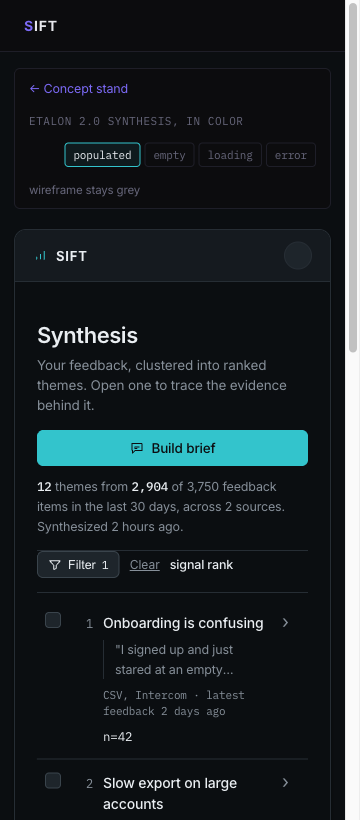
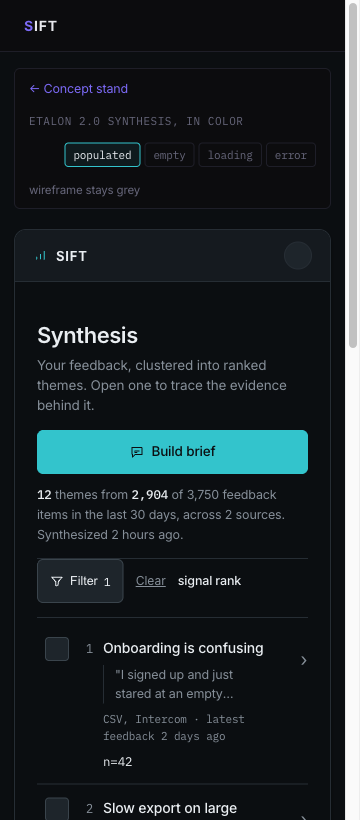
Concept Step 8: audit, before and after, stage closed
Audited with /impeccable audit plus a browser pass measuring contrast, target
size, focus, landmarks and overflow on every colour page at 1440 and 360.

Two P1s, and both were drift rather than fresh mistakes: not one control in the
colour layer met the 44px floor the grey contract had just been fixed to meet,
and the colour layer had no designed focus state, only the browser default ring.
Fixed, with the same three named exceptions the grey side carries. A P3 as well,
the phase separator at 1.39:1, which is decorative and aria-hidden and therefore
not a WCAG failure, but a separator nobody can see is not doing its job.

Contrast passes everywhere: every text pair measured against its real computed
background across five pages and both viewports, no failures.

The finding kept rather than fixed is the font. The detector flags Inter as an
overused face and it is right about the pattern, which is exactly the reflex this
stage exists to catch. It stays, with the argument written down instead of
assumed: signed to A5 and the named taste, self-hostable, and carrying its
contrast on the mono half where the counts and citations live. Revisited when
fonts become tokens at Stage 07. Swapping a face to score better against a
detector would leave it as unowned as choosing one by reflex.

The concept stand gains what it was missing: a Brand and references section, so
the three plates finally have the visible place they were promised and every
[…]

Changed region(s): [[0.0917, 0.5183, 0.8556, 1.0], [0.1222, 0.9451, 0.2139, 1.0]]

diff --git a/design/concept/concept.html b/design/concept/concept.html
@@ -174,6 +174,26 @@
     .img-note { grid-template-columns:1fr; }
   }
   @media (prefers-reduced-motion:reduce) { * { transition:none !important; scroll-behavior:auto; } }
+
+  .live-actions { display:flex; align-items:center; gap:12px; flex-wrap:wrap; margin-bottom:18px; }
+  .live-note { color:var(--ash); font-size:12.5px; max-width:60ch; }
+  .live-note code { font-family:var(--font-mono); color:var(--porcelain); }
+  .deferred-note { border:1px solid var(--line); border-left:2px solid var(--amber); border-radius:var(--r); padding:13px 16px; margin-bottom:14px; font-size:13px; line-height:1.65; color:var(--ash); }
+  .deferred-note b { color:var(--porcelain); font-weight:500; }
+  .sample.is-deferred { opacity:0.72; }
+  .plate { margin:0 0 20px; }
+  .plate img { width:100%; height:auto; display:block; border:1px solid var(--line); border-radius:var(--r); }
+  .plate figcaption { font-size:12.5px; line-height:1.65; color:var(--ash); margin-top:10px; }
+  .plate figcaption b { color:var(--porcelain); font-weight:500; }
+  .plate-row { display:grid; grid-template-columns:repeat(auto-fit,minmax(260px,1fr)); gap:18px; margin-bottom:22px; }
+  .plate--sm figcaption { font-size:12px; }
+  .ba-grid { display:grid; grid-template-columns:repeat(auto-fit,minmax(300px,1fr)); gap:18px; margin-bottom:22px; }
+  .ba { margin:0; }
+  .ba img { width:100%; height:auto; display:block; border:1px solid var(--line); border-radius:var(--r); }
+  .ba figcaption { font-size:12px; line-height:1.6; color:var(--ash); margin-top:9px; }
+  .ba figcaption b { color:var(--porcelain); font-weight:500; }
+  .sec-note { font-size:12.5px; color:var(--ash); margin-top:12px; }
+  .sec-note code { font-family:var(--font-mono); color:var(--porcelain); }
 </style>
 <link rel="stylesheet" href="../../_nav.css">
 </head>
@@ -211,20 +231,30 @@
   <header id="top">
     <div class="kicker">Sift / Concept / Stage 06</div>
     <h1 class="title">The visual language</h1>
-    <p class="lead">One brand, Command center, on the chosen layout, Split evidence. Every color, type, and form decision below is signed with the attribute it comes from. The page chrome is the portfolio theme; everything framed is the product brand it documents.</p>
+    <p class="lead">One brand, Command center, on the ranked ledger the etalon actually is. Every color, type, and form decision below is signed with the attribute it comes from. The page chrome is the portfolio theme; everything framed is the product brand it documents.</p>
   </header>
 
   <!-- LIVE -->
   <section id="live">
     <div class="sec-label">The language alive</div>
-    <h2>Synthesis, in the chosen layout</h2>
-    <p class="sec-intro">The etalon surface as it will look: ranked themes on the left, the live evidence for the selected theme on the right. Everything below this is the specification behind it.</p>
-    <p style="margin-bottom:18px">
+    <h2>Synthesis, and the brief a stranger reads</h2>
+    <p class="sec-intro">Two screens carry the language: the etalon, a dense ranked instrument its owner reads at a desk, and the public brief, one column of reading matter opened cold from a link by someone with no account. Same language, opposite density. Everything below this is the specification behind them.</p>
+    <p class="live-actions">
       <a class="btn" href="../../design/synthesis.html">Open the etalon in color</a>
-      <span style="color:var(--ash);font-size:12.5px;margin-left:10px">Colored copies in <code style="font-family:var(--font-mono);color:var(--porcelain)">design/</code>: populated, empty, loading, error. The grey wireframe stays the source of truth. The colored etalon colors the current wireframe structure (single column); this stand shows the Split-evidence direction, realized product-wide at Stage 07.</span>
+      <a class="btn-ghost" href="../../design/shared-brief.html">Open the shared brief</a>
+      <span class="live-note">Colored copies in <code>design/</code>: the etalon with its empty, loading and error states, plus the public brief. The grey wireframe stays the source of truth.</span>
     </p>
 
-    <div class="sample">
+    <div class="deferred-note">
+      <b>Below: the Split-evidence direction, deferred.</b> It was chosen at Step 5 to put evidence
+      in front of the eye before the click. The block bank then delivered that inside one column,
+      with a representative verbatim on every card and the scope line stating the denominator, so
+      the attribute is served without the structural change. The pane stays on record as a later
+      deepening of the drill; it is a change to node 2.0, and structure belongs to the IA and the
+      wireframes rather than to a colour copy. See <code>docs/decisions.md</code>.
+    </div>
+
+    <div class="sample is-deferred">
       <div class="sample-top">
         <span class="brand"><svg class="ic mark" width="16" height="16"><use href="#i-signal"/></svg> Sift</span>
         <nav><a class="on">Synthesis</a><a>Sources</a><a>Briefs</a></nav>
@@ -401,8 +431,84 @@
     </div>
   </section>
 
+  <!-- BRAND AND REFERENCES -->
+  <section id="brand">
+    <div class="sec-label">Brand and references</div>
+    <h2>Where the language came from</h2>
+    <p class="sec-intro">Three brand toolkit plates were generated against the emotions in the personas and against what the competitors already look like, and one was chosen at a glance. Every value in the palette above traces to a pixel of that plate or to a character decision recorded beside it.</p>
+
+    <figure class="plate">
+      <img src="assets/brand-plate-b.png" alt="Brand plate B, Command center: the chosen toolkit spread, showing the mark, the dark layered palette, the type pairing, and the UI tone" loading="lazy">
+      <figcaption><b>Chosen: Plate B, Command center.</b> The most product-native of the three, and the etalon is exactly this dense dark surface. The fixing scene is a PM at 9pm in a dim room, the screen the only light, the interface receding so the signal stands out. Two corrections were applied on the way into <code>DESIGN-artifacts.md</code>: the mark was flattened to monochrome, because a gradient would break the single-accent discipline, and Cyan was fixed as the one accent.</figcaption>
+    </figure>
+
+    <div class="plate-row">
+      <figure class="plate plate--sm">
+        <img src="assets/brand-plate-a.png" alt="Brand plate A, Analyst's desk: light off-white and deep teal with an editorial serif" loading="lazy">
+        <figcaption><b>Not chosen: A, Analyst's desk.</b> Light, warmer, closest to the Stripe and Perplexity end of the taste. Its serif for theme statements is kept on record as an open option.</figcaption>
+      </figure>
+      <figure class="plate plate--sm">
+        <img src="assets/brand-plate-c.png" alt="Brand plate C, Evidence ledger: stark monochrome on a ruled ledger grid with one semantic red" loading="lazy">
+        <figcaption><b>Not chosen: C, Evidence ledger.</b> The most ownable brand idea of the three and the coldest. Kept on record; nothing stops a later return to it.</figcaption>
+      </figure>
+    </div>
+
+    <div class="table-wrap">
+      <table>
+        <thead><tr><th>Borrowed</th><th>From</th><th>Which anxiety it answers</th></tr></thead>
+        <tbody>
+          <tr><td>One accent on layered neutrals, weight from hierarchy</td><td>Linear (base)</td><td>Alex works in 10 to 15 minute sessions; loud copy and loud color are friction, not delight</td></tr>
+          <tr><td>Inline citation marker plus a source panel</td><td>Perplexity, Parallel</td><td>"Confident presentation with no visible reasoning" is the named stop-trust trigger</td></tr>
+          <tr><td>Ranked rows with a count and a drill</td><td>Mercury, Amplitude</td><td>The synthesis is the value and the drill is the trust mechanism, so the first screen ranks rather than dumps</td></tr>
+          <tr><td>A tiny semantic accent on a monochrome field</td><td>shadcn/ui</td><td>Thin evidence has to read as information, not as an alarm</td></tr>
+        </tbody>
+      </table>
+    </div>
+    <p class="sec-note">A reference says HOW something is done; an attribute says WHY it is right for us. A technique with no attribute behind it is borrowing without a reason. Full table in <code>design/concept/docs/references.md</code>.</p>
+  </section>
+
+  <!-- CRITIQUE -->
+  <section id="critique">
+    <div class="sec-label">Critique</div>
+    <h2>Before and after, and what the audit found</h2>
+    <p class="sec-intro">The colour copy was made before the wireframes were rebuilt on the block bank. The gap was not cosmetic: the screen could not demonstrate two of its own five attributes.</p>
+
+    <div class="ba-grid">
+      <figure class="ba">
+        <img src="screens/etalon-color-before-1440.png" alt="The etalon in color before the rebuild: no rank numbers, no quote on the card, no scope line, and a permanently visible action bar" loading="lazy">
+        <figcaption><b>Before, 1440.</b> No rank number, no quote on the card, no denominator, no remainder on the load control, and an action bar that never went away, so the screen carried two primary actions at once.</figcaption>
+      </figure>
+      <figure class="ba">
+        <img src="screens/etalon-color-after-1440.png" alt="The etalon in color after the rebuild: rank, representative quote, scope line, facet counts, load more with the remainder" loading="lazy">
+        <figcaption><b>After, 1440.</b> A2 is answered on the surface by the quote and the scope line; A4 by the rank and the remainder. The one action sits in the head at rest and swaps for the selection bar the moment a row is picked.</figcaption>
+      </figure>
+      <figure class="ba">
+        <img src="screens/etalon-color-before-360.png" alt="The etalon in color before the rebuild at 360px" loading="lazy">
+        <figcaption><b>Before, 360.</b></figcaption>
+      </figure>
+      <figure class="ba">
+        <img src="screens/etalon-color-after-360.png" alt="The etalon in color after the rebuild at 360px, with the quote clamped to two lines and the confidence pill on its own row" loading="lazy">
+        <figcaption><b>After, 360.</b> The quote clamps to two lines and the confidence pill takes its own row, so the theme label never gets squeezed to three.</figcaption>
+      </figure>
+    </div>
+
+    <div class="table-wrap">
+      <table>
+        <thead><tr><th>Found</th><th>Severity</th><th>Resolution</th></tr></thead>
+        <tbody>
+          <tr><td>No control in the colour layer met the 44px target floor: checkbox 16, drill 18, chips 27, tabs 32, buttons 36. The grey contract had just been fixed to meet it; the colour copy had drifted from it.</td><td>P1</td><td>Fixed in <code>_theme.css</code>. Three exceptions are named rather than averaged: the checkbox at the 24px AA floor, links inside running text, and the avatar which reads at 28 and is hit at 44 through an overlay.</td></tr>
+          <tr><td>No designed focus state anywhere in the colour layer, only the browser default ring, which on a dark instrument is barely a ring.</td><td>P1</td><td>Fixed. <code>:focus-visible</code> draws the accent, because focus is the keyboard's version of the active state.</td></tr>
+          <tr><td>The separator between phases sat at 1.39:1. Decorative and aria-hidden, so not a WCAG failure, but a separator nobody can see is not doing its job.</td><td>P3</td><td>Fixed. Raised to Ash at reduced opacity.</td></tr>
+          <tr><td>The detector flags Inter as an overused face: every wave of generated UI converges on it.</td><td>Accepted, with the argument</td><td>Kept. Inter is signed to A5 and to the named taste, it is self-hostable, and the pairing carries its contrast on the mono half, where the counts live. Recorded rather than waved away, because "the reflex answer happens to be right" is a claim that has to be made out loud. Revisit when fonts become tokens at Stage 07.</td></tr>
+          <tr><td>Every text pair measured in the browser against its real background: 5 pages, both viewports.</td><td>Pass</td><td>No failures. Ash on Canvas is the dimmest pair that carries text, at about 5.5:1.</td></tr>
+        </tbody>
+      </table>
+    </div>
+    <p class="sec-note">Run with <code>/impeccable audit</code> plus a browser pass that measured contrast, target size, focus, landmarks and overflow on every page at 1440 and 360. Full record in <code>docs/decisions.md</code>.</p>
+  </section>
+
   <footer>
-    Brand from <code>DESIGN-artifacts.md</code>, attributes from <code>design/concept/docs/concept.md</code>, canonical data from <code>wireframes/synthesis.html</code>. The two app screens in color come next (Steps 6 and 7) in <code>design/</code>; the full product in color is Stage 07.
+    Brand from <code>DESIGN-artifacts.md</code>, attributes from <code>design/concept/docs/concept.md</code>, canonical data from <code>wireframes/synthesis.html</code>. The two app screens in color are live in <code>design/</code>: the etalon with its states, and the public brief. The full product in color is Stage 07.
   </footer>
 
   </div>
@@ -411,7 +517,7 @@
 
 <script>
 window.NAV_BASE = '../../';
-window.NAV_SECTIONS = [{"id": "palette", "label": "Palette"}, {"id": "type", "label": "Typography"}, {"id": "form", "label": "Form"}, {"id": "imagery", "label": "Imagery"}, {"id": "icons", "label": "Icons"}, {"id": "components", "label": "Components"}];
+window.NAV_SECTIONS = [{"id": "live", "label": "The language alive"}, {"id": "palette", "label": "Palette"}, {"id": "type", "label": "Typography"}, {"id": "form", "label": "Form"}, {"id": "imagery", "label": "Imagery"}, {"id": "icons", "label": "Icons"}, {"id": "components", "label": "Components"}, {"id": "contrast", "label": "Contrast"}, {"id": "brand", "label": "Brand and references"}, {"id": "critique", "label": "Critique"}];
 </script>
 <script src="../../_nav.js"></script>
 </body>

diff --git a/design/_theme.css b/design/_theme.css
@@ -22,6 +22,11 @@
 * { box-sizing:border-box; margin:0; padding:0; }
 html { scroll-behavior:smooth; }
 body { font-family:var(--font-ui); background:var(--canvas); color:var(--porcelain); line-height:1.5; font-size:14px; letter-spacing:-0.011em; -webkit-font-smoothing:antialiased; padding-top:52px; }
+/* Focus. The colour layer had no designed focus state, only the user agent ring, which on a
+   dark instrument is barely a ring at all. Cyan is signed for the active state (A1), and focus
+   is the keyboard's version of active. :focus-visible, so a mouse click does not draw it. */
+:focus-visible { outline:2px solid var(--cyan); outline-offset:2px; border-radius:var(--r-sm); }
+
 .sprite { position:absolute; width:0; height:0; }
 .ic { display:inline-block; vertical-align:middle; stroke:currentColor; fill:none; stroke-width:1.6; stroke-linecap:round; stroke-linejoin:round; }
 
@@ -54,16 +59,18 @@ nav.top { position:fixed; top:0; left:0; right:0; z-index:100; height:52px; disp
 .brand { display:flex; align-items:center; gap:8px; font-weight:600; letter-spacing:0.06em; text-transform:uppercase; font-size:13px; color:var(--porcelain); }
 .brand .mark { color:var(--cyan); }
 .navtabs { display:flex; gap:2px; }
-.navtabs a { font-size:13.5px; color:var(--ash); text-decoration:none; padding:6px 12px; border-radius:var(--r); transition:color .15s,background .15s; }
+.navtabs a { display:inline-flex; align-items:center; min-height:44px; font-size:13.5px; color:var(--ash); text-decoration:none; padding:0 12px; border-radius:var(--r); transition:color .15s,background .15s; }
 .navtabs a:hover { color:var(--porcelain); }
 .navtabs a.active { color:var(--porcelain); background:var(--elevated); }
 .spacer { flex:1; }
-.avatar { width:28px; height:28px; border-radius:50%; background:var(--elevated); border:1px solid var(--line); display:block; }
+/* reads at 28px, hit at 44 through an overlay: the visual and the target may differ */
+.avatar { position:relative; width:28px; height:28px; border-radius:50%; background:var(--elevated); border:1px solid var(--line); display:block; }
+.avatar::after { content:""; position:absolute; inset:-8px; border-radius:50%; }
 
 .appmain { flex:1; padding:20px 22px; }
 
 .toolbar { display:flex; align-items:center; gap:8px; flex-wrap:wrap; padding-bottom:14px; margin-bottom:6px; border-bottom:1px solid var(--line); }
-.chip { display:inline-flex; align-items:center; gap:6px; font-size:12.5px; color:var(--ash); background:var(--surface); border:1px solid var(--line); border-radius:var(--r); padding:5px 10px; cursor:pointer; transition:color .15s,border-color .15s; }
+.chip { display:inline-flex; align-items:center; gap:6px; min-height:44px; font-size:12.5px; color:var(--ash); background:var(--surface); border:1px solid var(--line); border-radius:var(--r); padding:0 12px; cursor:pointer; transition:color .15s,border-color .15s; }
 .chip:hover { color:var(--porcelain); border-color:#333c44; }
 .chip .ic { width:14px; height:14px; }
 /* Facet counts, and the active facet marked by TONE rather than by hue. Cyan could be read as
@@ -73,7 +80,7 @@ nav.top { position:fixed; top:0; left:0; right:0; z-index:100; height:52px; disp
 .chip-count { font-family:var(--font-mono); font-size:11.5px; color:var(--ash); }
 .chip.is-on { color:var(--porcelain); background:var(--elevated); border-color:#3a444c; }
 .chip.is-on .chip-count { color:var(--porcelain); }
-.clear { font-size:12px; color:var(--ash); background:none; border:0; text-decoration:underline; cursor:pointer; padding:6px 2px; font-family:inherit; }
+.clear { display:inline-flex; align-items:center; min-height:44px; font-size:12px; color:var(--ash); background:none; border:0; text-decoration:underline; cursor:pointer; padding:0 4px; font-family:inherit; }
 .clear:hover { color:var(--porcelain); }
 
 .sortnote { font-size:12.5px; color:var(--ash); margin-left:auto; }
@@ -115,7 +122,9 @@ nav.top { position:fixed; top:0; left:0; right:0; z-index:100; height:52px; disp
    customer's words are set plainly, recessed, behind a hairline rather than in a card. */
 .theme-quote { display:block; font-size:12.5px; color:var(--ash); line-height:1.55; margin-top:7px; padding-left:11px; border-left:1px solid var(--line); max-width:78ch; }
 .theme-prov { display:block; font-family:var(--font-mono); font-size:11px; color:var(--ash); margin-top:7px; }
-.check { appearance:none; -webkit-appearance:none; width:16px; height:16px; border:1px solid var(--gunmetal,#3a444c); border-radius:4px; background:var(--elevated); cursor:pointer; position:relative; }
+/* 24px, the AA floor, not 44: a 44px checkbox would double the height of every row in a
+   ranked list. Same named exception the grey contract carries. */
+.check { appearance:none; -webkit-appearance:none; width:24px; height:24px; border:1px solid var(--gunmetal,#3a444c); border-radius:4px; background:var(--elevated); cursor:pointer; position:relative; }
 .check:checked { background:var(--cyan); border-color:var(--cyan); }
 .check:checked::after { content:""; position:absolute; left:5px; top:2px; width:4px; height:8px; border:solid var(--canvas); border-width:0 2px 2px 0; transform:rotate(45deg); }
 .theme-main { text-decoration:none; color:inherit; min-width:0; }
@@ -124,7 +133,7 @@ nav.top { position:fixed; top:0; left:0; right:0; z-index:100; height:52px; disp
 .conf { display:inline-flex; align-items:center; gap:8px; justify-content:flex-end; }
 .conf-n { font-family:var(--font-mono); font-size:12.5px; color:var(--porcelain); }
 .badge-low { font-family:var(--font-mono); font-size:11px; color:var(--amber); background:rgba(217,164,65,0.10); border:1px solid rgba(217,164,65,0.32); border-radius:var(--r-sm); padding:1px 6px; white-space:nowrap; }
-.theme-drill { color:var(--ash); font-size:18px; text-decoration:none; line-height:1; transition:color .15s,transform .15s var(--ease); }
+.theme-drill { display:inline-flex; align-items:center; justify-content:center; min-width:44px; min-height:44px; color:var(--ash); font-size:18px; text-decoration:none; line-height:1; transition:color .15s,transform .15s var(--ease); }
 .theme:hover .theme-drill { color:var(--porcelain); transform:translateX(2px); }
 
 /* Load more carries the remainder, so the denominator stays true as the list grows (A4). */
@@ -140,10 +149,10 @@ nav.top { position:fixed; top:0; left:0; right:0; z-index:100; height:52px; disp
 
 .actionbar { display:flex; align-items:center; gap:10px; padding-top:18px; }
 .actionbar-note { font-size:12.5px; color:var(--ash); margin-right:auto; }
-.btn { display:inline-flex; align-items:center; gap:7px; font-family:var(--font-ui); font-size:13.5px; font-weight:500; color:var(--canvas); background:var(--cyan); border:0; border-radius:var(--r); padding:8px 14px; cursor:pointer; text-decoration:none; transition:filter .15s var(--ease); }
+.btn { display:inline-flex; align-items:center; justify-content:center; gap:7px; min-height:44px; font-family:var(--font-ui); font-size:13.5px; font-weight:500; color:var(--canvas); background:var(--cyan); border:0; border-radius:var(--r); padding:0 16px; cursor:pointer; text-decoration:none; transition:filter .15s var(--ease); }
 .btn:hover { filter:brightness(1.08); }
 .btn .ic { width:15px; height:15px; }
-.btn--ghost { display:inline-flex; align-items:center; gap:7px; font-size:13.5px; font-weight:500; color:var(--porcelain); background:transparent; border:1px solid var(--line); border-radius:var(--r); padding:8px 14px; cursor:pointer; text-decoration:none; transition:border-color .15s; }
+.btn--ghost { display:inline-flex; align-items:center; justify-content:center; gap:7px; min-height:44px; font-size:13.5px; font-weight:500; color:var(--porcelain); background:transparent; border:1px solid var(--line); border-radius:var(--r); padding:0 16px; cursor:pointer; text-decoration:none; transition:border-color .15s; }
 .btn--ghost:hover { border-color:#3a444c; }
 
 /* ---- phase strip (2.1, 2.2): the three phases of ingestion, named before the user commits.
@@ -157,7 +166,7 @@ nav.top { position:fixed; top:0; left:0; right:0; z-index:100; height:52px; disp
 .step.is-done .step-n { color:var(--porcelain); border-color:#3a444c; }
 .step.is-current { color:var(--porcelain); }
 .step.is-current .step-n { color:var(--porcelain); border-color:var(--porcelain); background:var(--elevated); }
-.step-sep { color:var(--line); }
+.step-sep { color:var(--ash); opacity:0.7; }
 
 /* the theme-card skeleton mirrors the real row, so the wait promises what arrives (A4) */
 .skelrow { display:grid; grid-template-columns:22px 20px 1fr; gap:6px 14px; padding:13px 8px; border-bottom:1px solid var(--line); }

diff --git a/_nav.js b/_nav.js
@@ -47,7 +47,7 @@ window.NAV = [
 
   { id: 'concept', label: 'Concept', pages: [
     { label: 'Directions', page: 'design/concept/directions.html', done: true },
-    { label: 'Concept',    page: 'design/concept/concept.html',    done: false } ] },
+    { label: 'Concept',    page: 'design/concept/concept.html',    done: true } ] },
 
   { id: 'ui-visual',     label: 'UI + Visual',         pages: [ { label: 'UI + Visual',         page: null, done: false } ] },
   { id: 'tokens',        label: 'Tokens + Components', pages: [ { label: 'Tokens + Components', page: null, done: false } ] },

diff --git a/docs/decisions.md b/docs/decisions.md
@@ -239,3 +239,21 @@ Left open and written where it was found: 2.0 says its themes are counted "from 
 items in the last 30 days" while 4.0 counts a theme over the whole corpus. Whether the date filter
 narrows the ranking or only the list is an IA question, and it is recorded on the screen rather
 than settled by a colour copy.
+
+**Concept audit, and the one finding kept rather than fixed (August 2026).**
+Step 8 ran `/impeccable audit` plus a browser pass that measured contrast, target size, focus,
+landmarks and overflow on every colour page at 1440 and 360. Two P1s, both design-system drift
+between the grey contract and the colour copy rather than fresh mistakes: not one control in the
+colour layer met the 44px floor the grey wireframes had just been fixed to meet, and the colour
+layer had no designed focus state at all, only the browser's default ring, which on a dark surface
+is barely a ring. Both fixed, with the same three named exceptions the grey contract carries.
+
+The finding kept is the font. The detector flags Inter as an overused face, and it is right about
+the pattern: every wave of generated interface converges on it, which is exactly the model reflex
+this stage exists to catch. It is kept anyway, and the argument is written down rather than
+assumed. Inter is signed to A5 and to the named taste (Vercel, Linear), it is self-hostable on
+GitHub Pages, and the pairing carries its contrast on the mono half, where the counts and citations
+live and where the trust surface actually is. Recorded as a challenge answered, not a warning
+waved away, and it is revisited when fonts become tokens at Stage 07.
+Rejected: swapping the face to score better against a detector. A face chosen to avoid a warning is
+as unowned as a face chosen by reflex.

diff --git a/README.md b/README.md
@@ -18,7 +18,7 @@ This table and the `done` flags in `/_nav.js` are the only two places status is 
 | Information Architecture | Base layer done. Detail layer done for 39 nodes and **reopened** to add the missing block bank (`ia/docs/blocks.md`), the source the page composition never had |
 | Wireframes | **Done, rebuilt on the block bank** (17 screens, 38 pages). Composition traces to `ia/docs/blocks.md`; states keep their screen's blocks; one stage panel replaced the top bar plus rail; critique run on two instruments (Claude in a browser, Codex read-only), 11 findings, all fixed |
 | Voice | Done (4 principles, dictionary, forbidden list, microcopy rules; every screen rewritten; voice.html deployed). Re-runs over whatever blocks the wireframe rebuild adds |
-| Concept | In progress, parked (brand plates, three layout directions, a first color pass on Synthesis). Resumes when the grey screens are final |
+| Concept | **Done.** Brand plate B chosen and entered into `DESIGN-artifacts.md`; five attributes, each signed to a data line; the etalon and its three states plus the public brief in color in `design/`; the split-evidence direction re-read against the rebuild and deferred with the reason; audited (targets, focus, contrast, overflow) and the before / after on `concept.html` |
 | UI + Visual | Not started |
 | Tokens + Components | Not started |
 | Design System | Not started |
